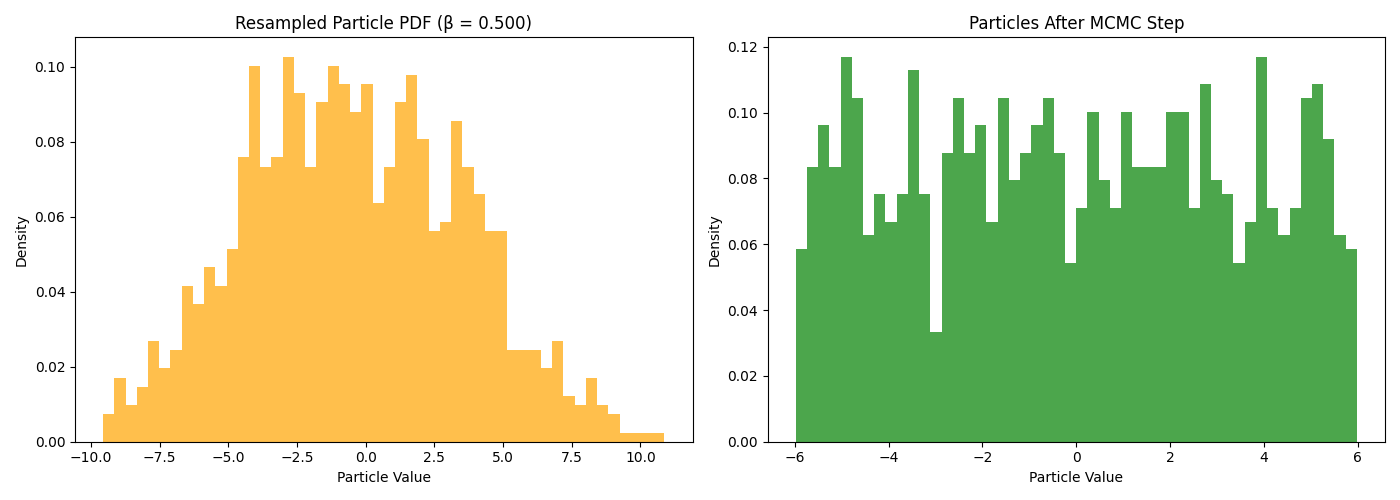
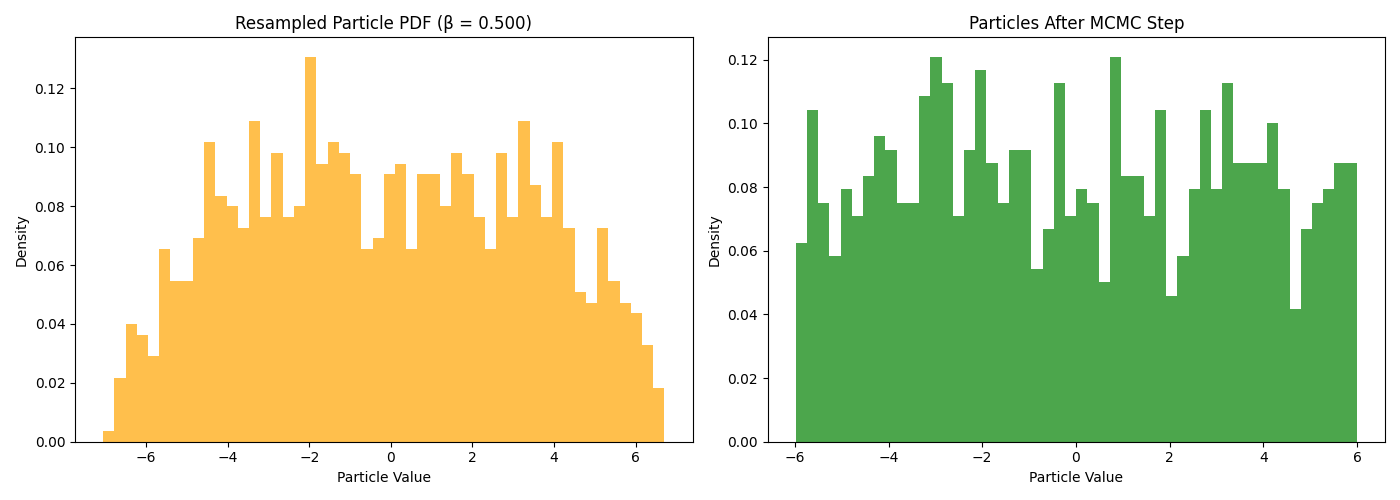
NewBetaTesting

diff --git a/regula_falsiiTest.py b/regula_falsiiTest.py
@@ -1,0 +1,121 @@
+import numpy as np
+
+
+
+
+# Test the f(x) function without running regula falsi
+def new_beta_test(potential, w_list, beta):
+
+    # Copy the inner function for testing
+    def integrand_m(DeltaBeta):
+        exponents = []
+        val = 0.0
+        for i in range(len(w_list)):
+            val = np.exp(-potential[i] * DeltaBeta) * w_list[i]
+            val = val * val
+            exponents.append(val)
+        mean_exp = np.mean(exponents)
+        print(f"(integrand_m({DeltaBeta}))^2: {mean_exp}")
+        return mean_exp
+
+    def integrand_s(DeltaBeta):
+        exponents2 = []
+        val = 0.0
+        for i in range(len(w_list)):
+            val = np.exp((-(potential[i] * DeltaBeta)) ** 2) * w_list[i]
+            exponents2.append(val)
+        mean_exp2 = np.mean(exponents2)
+        print(f"integrand_s({DeltaBeta}): {mean_exp2}")
+        return mean_exp2
+
+    def f(x):
+        cv_ = 0.25
+        m_val = integrand_m(x)
+        s_val = integrand_s(x)
+        val = cv_ * m_val - np.sqrt(s_val - m_val)
+        print(f"f({x}): f={val}")
+        return val
+
+    # Test f(x) for a few values
+
+    # Plot f(x) over a range
+    import matplotlib.pyplot as plt
+
+    x_vals = np.linspace(0, 20, 100)
+    y_vals = [f(x) for x in x_vals]
+
+    plt.plot(x_vals, y_vals, label="f(x)")
+    plt.xlabel("x")
+    plt.ylabel("f(x)")
+    plt.title("Plot of f(x)")
+    plt.legend()
+    plt.grid(True)
+    plt.show()
+
+# def NewBeta(potential, w_list, beta):
+#     # Integrand for m(beta)
+#         def integrand_m(DeltaBeta):
+#             exponents = []
+#             val = 0.0
+#             for i in range(len(w_list)):
+#                 val = np.exp(-potential[i] * DeltaBeta)* w_list[i]
+#                 val = val*val 
+#                 exponents.append(val)
+#             #print(f"integrand_m({DeltaBeta}): {exponents}")
+#             # mean of all exponentials for current DeltaBeta
+#             mean_exp = np.mean(exponents)
+#             print(f"(integrand_m({DeltaBeta}))^2: {mean_exp}")
+#             return mean_exp
+
+#         # Integrand for s(beta)
+#         def integrand_s(DeltaBeta):
+#             exponents2 = []
+#             val = 0.0
+#             for i in range(len(w_list)):
+#                 val = np.exp((-(potential[i]  * DeltaBeta))**2)* w_list[i]
+#                 exponents2.append(val)
+#             #print(f"integrand_s({DeltaBeta}): {exponents2}")
+#             mean_exp2 = np.mean(exponents2)
+#             print(f"integrand_s({DeltaBeta}): {mean_exp2}")
+#             return mean_exp2
+
+#         # Function to find root of: f(x) = m(x)^2 * (cv_^2 + 1) - s(x)
+#         def f(x):
+#             cv_ = 0.9
+#             m_val = integrand_m(x)
+#             s_val = integrand_s(x)
+#             val = cv_ * m_val - np.sqrt(s_val- m_val)
+#             print(f"f({x}): f={val}")
+#             return val
+
+#         # Regula Falsi method implementation
+#         def regula_falsi(f, beta, tol=1e-2, max_iter=2):
+#             a = 0.0
+#             b = min(1.0 - beta, 1.0)
+#             fa = f(a)
+#             fb = f(b)
+
+#             if fa * fb > 0:
+#                 raise ValueError("f(a) and f(b) wst have opposite signs")
+            
+
+#             for i in range(max_iter):
+#                 # Regula Falsi forwla
+#                 c = b - fb * (b - a) / (fb - fa)
+#                 fc = f(c)
+
+#                 if abs(fc) < tol:
+#                     print(f"Root found at x = {c:.6f} after {i+1} iterations.")
+#                     return c
+
+#                 if fa * fc < 0:
+#                     b, fb = c, fc
+#                     fb *= 0.5  # Illinois method
+#                 else:
+#                     a, fa = c, fc
+#                     fa *= 0.5
+#             # If loop ends without return, raise error outside the loop
+#             raise RuntimeError("Regula Falsi method did not converge")
+
+#         delta = regula_falsi(f, beta)
+#         return delta

diff --git a/IS_SMC.py b/IS_SMC.py
@@ -2,6 +2,8 @@ from laplace_solve import laplace_solver
 from resampling import resample
 from markov_kernal import markov_kernel
 from regula_falsi import NewBeta
+from regula_falsiiTest import new_beta_test
+from Potential import compute_potentials
 
 import numpy as np
 import matplotlib.pyplot as plt
@@ -28,7 +30,7 @@ experiment_noisy_versions = [
 experiment = np.mean(experiment_noisy_versions, axis=0)
 
 # Particle initialization
-num_particles = 1000
+num_particles = 10
 particles = np.random.uniform(low=-6.0, high=6.0, size=num_particles)
 particles_initial = particles.copy()  # Store initial particles for reference
 weights = [1.0 / num_particles] * num_particles  # Equal initial weights
@@ -36,15 +38,6 @@ weights = [1.0 / num_particles] * num_particles  # Equal initial weights
 # ----------------------------------
 # Potential Calculation Function
 # ----------------------------------
-
-def compute_potentials(n, particles, experiment, h):
-    """Calculate potential  for each particle."""
-    potentials = []
-    for p in particles:
-        sim_output, _ = laplace_solver(n, p)
-        l2_error = h**2 * np.sum((sim_output - experiment)**2) / 2
-        potentials.append(l2_error)
-    return potentials
 
 # Compute initial potential values
 potentials = compute_potentials(n, particles, experiment, h)
@@ -57,20 +50,19 @@ potentials = compute_potentials(n, particles, experiment, h)
 
 beta = 0.0
 
-while beta < 1.0:
-
-
-
+while beta < 0.9999:
 
 
     #-------------------------
     #step 1: calculating new beta
     #-------------------------
-    #delta = NewBeta(potentials, weights, beta)
-    delta = 0.1  # Limit the step size to avoid large jumps
-    beta += delta
+    #delta = new_beta_test(potentials, weights, beta)
+    delta = NewBeta(potentials, weights, beta)
+    #delta = 0.5  # Limit the step size to avoid large jumps
+    beta = min(beta + delta, 1.0)
+    print(f"Current beta: {beta:.3f}")
 
-    print(f"Updated beta: {beta:.4f}")
+    
 
     # Update weights using tempered likelihood
     #-------------------------
@@ -89,12 +81,14 @@ while beta < 1.0:
     #step 4: Markov kernel  
     #-------------------------
     particles = markov_kernel(particles, resampled_particles, experiment, n, h, beta)
+
+    #-------------------------
+    #step 5: recalculating potentials for new particles  
+    #-------------------------
+
+    potentials = compute_potentials(n, particles, experiment, h)
+
     #print("length of particles after MCMC step:", (particles))
-
-
-
-
-
 
     # -----------------------------
     # Visualization

diff --git a/regula_falsi.py b/regula_falsi.py
@@ -2,6 +2,7 @@ import numpy as np
 
 
 def NewBeta(potential, w_list, beta):
+        print(f"NewBeta called with potential={potential}, w_list={w_list}, beta={beta}")
     # Integrand for m(beta)
         def integrand_m(DeltaBeta):
             exponents = []
@@ -30,7 +31,7 @@ def NewBeta(potential, w_list, beta):
 
         # Function to find root of: f(x) = m(x)^2 * (cv_^2 + 1) - s(x)
         def f(x):
-            cv_ = 0.25
+            cv_ = 0.9
             m_val = integrand_m(x)
             s_val = integrand_s(x)
             val = cv_ * m_val - np.sqrt(s_val- m_val)
@@ -39,7 +40,7 @@ def NewBeta(potential, w_list, beta):
 
         # Regula Falsi method implementation
         def regula_falsi(f, beta, tol=1e-2, max_iter=2):
-            a = 1e-4
+            a = 0.0
             b = min(1.0 - beta, 1.0)
             fa = f(a)
             fb = f(b)

diff --git a/Potential.py b/Potential.py
@@ -1,0 +1,11 @@
+import numpy as np
+from laplace_solve import laplace_solver
+
+def compute_potentials(n, particles, experiment, h):
+    """Calculate potential  for each particle."""
+    potentials = []
+    for p in particles:
+        sim_output, _ = laplace_solver(n, p)
+        l2_error = h**2 * np.sum((sim_output - experiment)**2) / 2
+        potentials.append(l2_error)
+    return potentials
